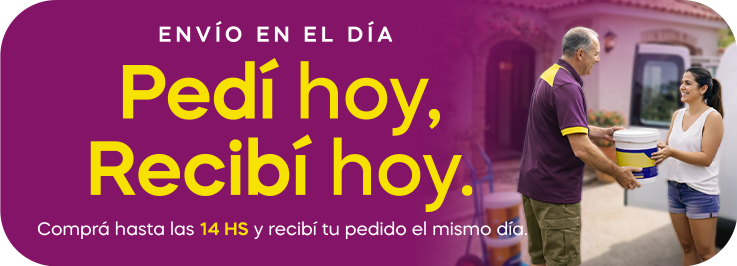
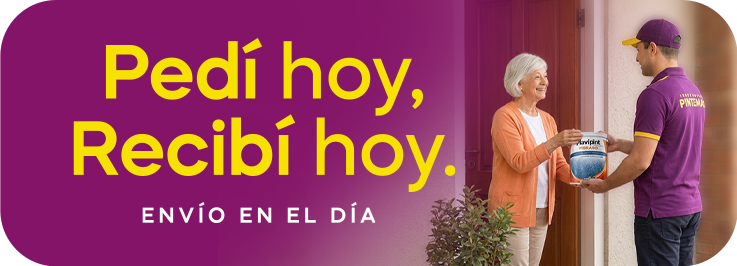
chore(pintemas): optimize and upload assets to Supabase tenant-assets
- Add logo.svg, logo-dark.svg, logosize.svg to optimization script
- Minify SVGs and upload to tenant-assets bucket
- Hero, combos, promo PNG to WebP, pagoalrecibir PNG optimized
- 15 assets uploaded: logos, favicon, icon-envio, hero, combos, promo, pagoalrecibir

diff --git a/optimize-pintemas-assets-upload.js b/optimize-pintemas-assets-upload.js
@@ -65,6 +65,28 @@ async function main() {
   let ok = 0
   let err = 0
 
+  // 0. Logos SVG (logo, logo-dark, logosize)
+  const logos = ['logo.svg', 'logo-dark.svg', 'logosize.svg']
+  for (const name of logos) {
+    const logoPath = path.join(BASE, name)
+    if (fs.existsSync(logoPath)) {
+      try {
+        const raw = fs.readFileSync(logoPath)
+        const out = minifySvg(raw)
+        const storagePath = `tenants/${SLUG}/${name}`
+        await upload(storagePath, out, 'image/svg+xml')
+        console.log(`✅ ${storagePath}  ${(raw.length / 1024).toFixed(1)} KB → ${(out.length / 1024).toFixed(1)} KB`)
+        ok++
+      } catch (e) {
+        console.error(`❌ ${name}: ${e.message}`)
+        err++
+      }
+      await new Promise((r) => setTimeout(r, 150))
+    } else {
+      console.warn(`⚠ No existe: ${logoPath}`)
+    }
+  }
+
   // 1. Favicon SVG
   const faviconPath = path.join(BASE, 'favicon.svg')
   if (fs.existsSync(faviconPath)) {
